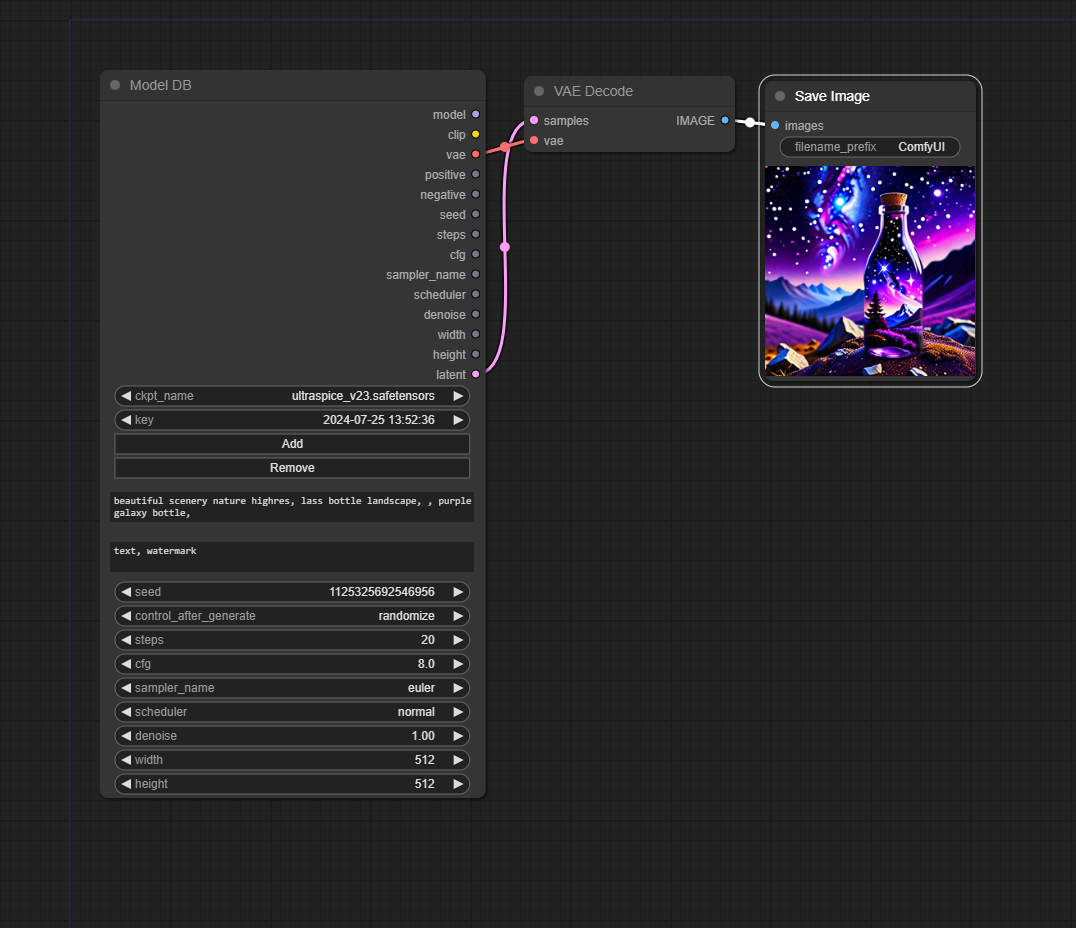
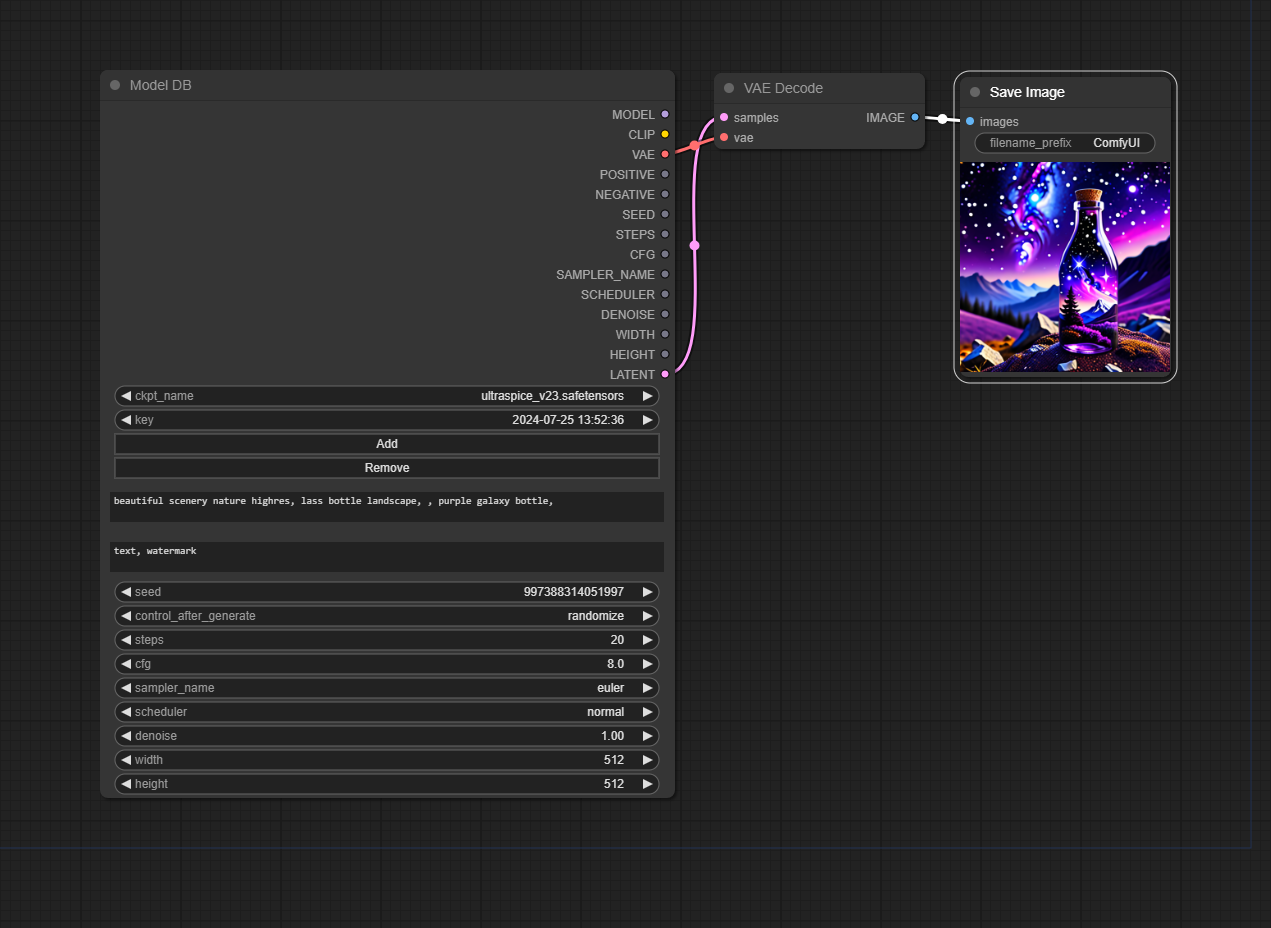
update

diff --git a/__init__.py b/__init__.py
@@ -180,7 +180,7 @@ class ModelDB():
   
   FUNCTION = "exec"
   RETURN_TYPES = ("MODEL", "CLIP", "VAE", "STRING", "STRING", "INT", "INT", "FLOAT", "STRING", "STRING", "FLOAT", "INT", "INT", "LATENT",)
-  RETURN_NAMES = ("model", "clip", "vae", "positive", "negative", "seed", "steps", "cfg", "sampler_name", "scheduler", "denoise", "width", "height", "latent",)
+  RETURN_NAMES = ("MODEL", "CLIP", "VAE", "POSITIVE", "NEGATIVE", "SEED", "STEPS", "CFG", "SAMPLER_NAME", "SCHEDULER", "DENOISE", "WIDTH", "HEIGHT", "LATENT",)
 
   CATEGORY = "utils"
 

diff --git a/README.md b/README.md
@@ -16,19 +16,19 @@ You can't change key name for simplify process flow.
 
 | Field        | Type  | Info                                      |
 |--------------|-------|-------------------------------------------|
-| model        | MODEL |                                           |
-| clip         | CLIP  |                                           |
-| vae          | VAE   |                                           |
-| positive     | TEXT  |                                           |
-| negative     | TEXT  |                                           |
-| seed         | INT   |                                           |
-| cfg          | FLOAT |                                           |
-| smapler_name | TEXT  | Can not link KSampler sampler_name input. |
-| scheduler    | TEXT  | Can not link KSampler scheduler input.    |
-| denoise      | FLOAT |                                           |
-| width        | INT   |                                           |
-| height       | INT   |                                           |
-| latent       | LATENT|                                           |
+| MODEL        | MODEL |                                           |
+| CLIP         | CLIP  |                                           |
+| VAE          | VAE   |                                           |
+| POSITIVE     | TEXT  |                                           |
+| NEGATIVE     | TEXT  |                                           |
+| SEED         | INT   |                                           |
+| CFG          | FLOAT |                                           |
+| SAMPLER_NAME | TEXT  | Can not link KSampler sampler_name input. |
+| SCHEDULER    | TEXT  | Can not link KSampler scheduler input.    |
+| DENOISE      | FLOAT |                                           |
+| WIDTH        | INT   |                                           |
+| HEIGHT       | INT   |                                           |
+| LATENT       | LATENT|                                           |
 
 ## Updates
 
